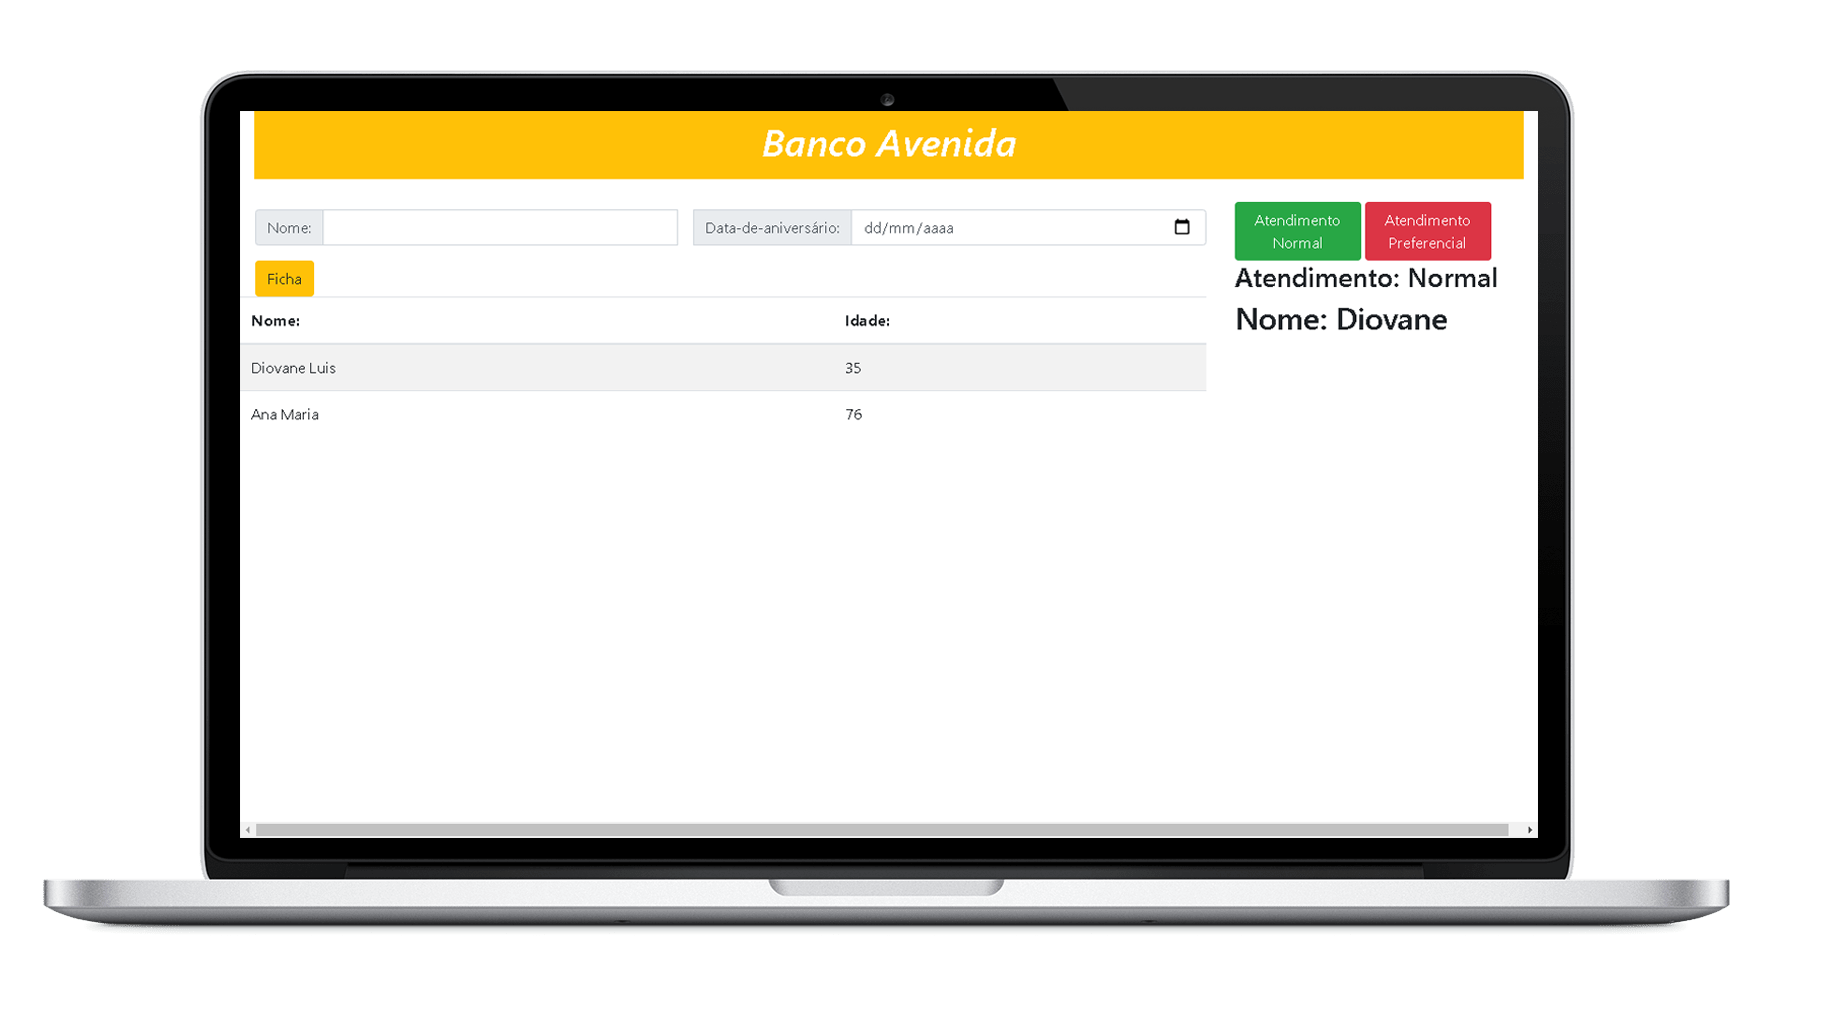
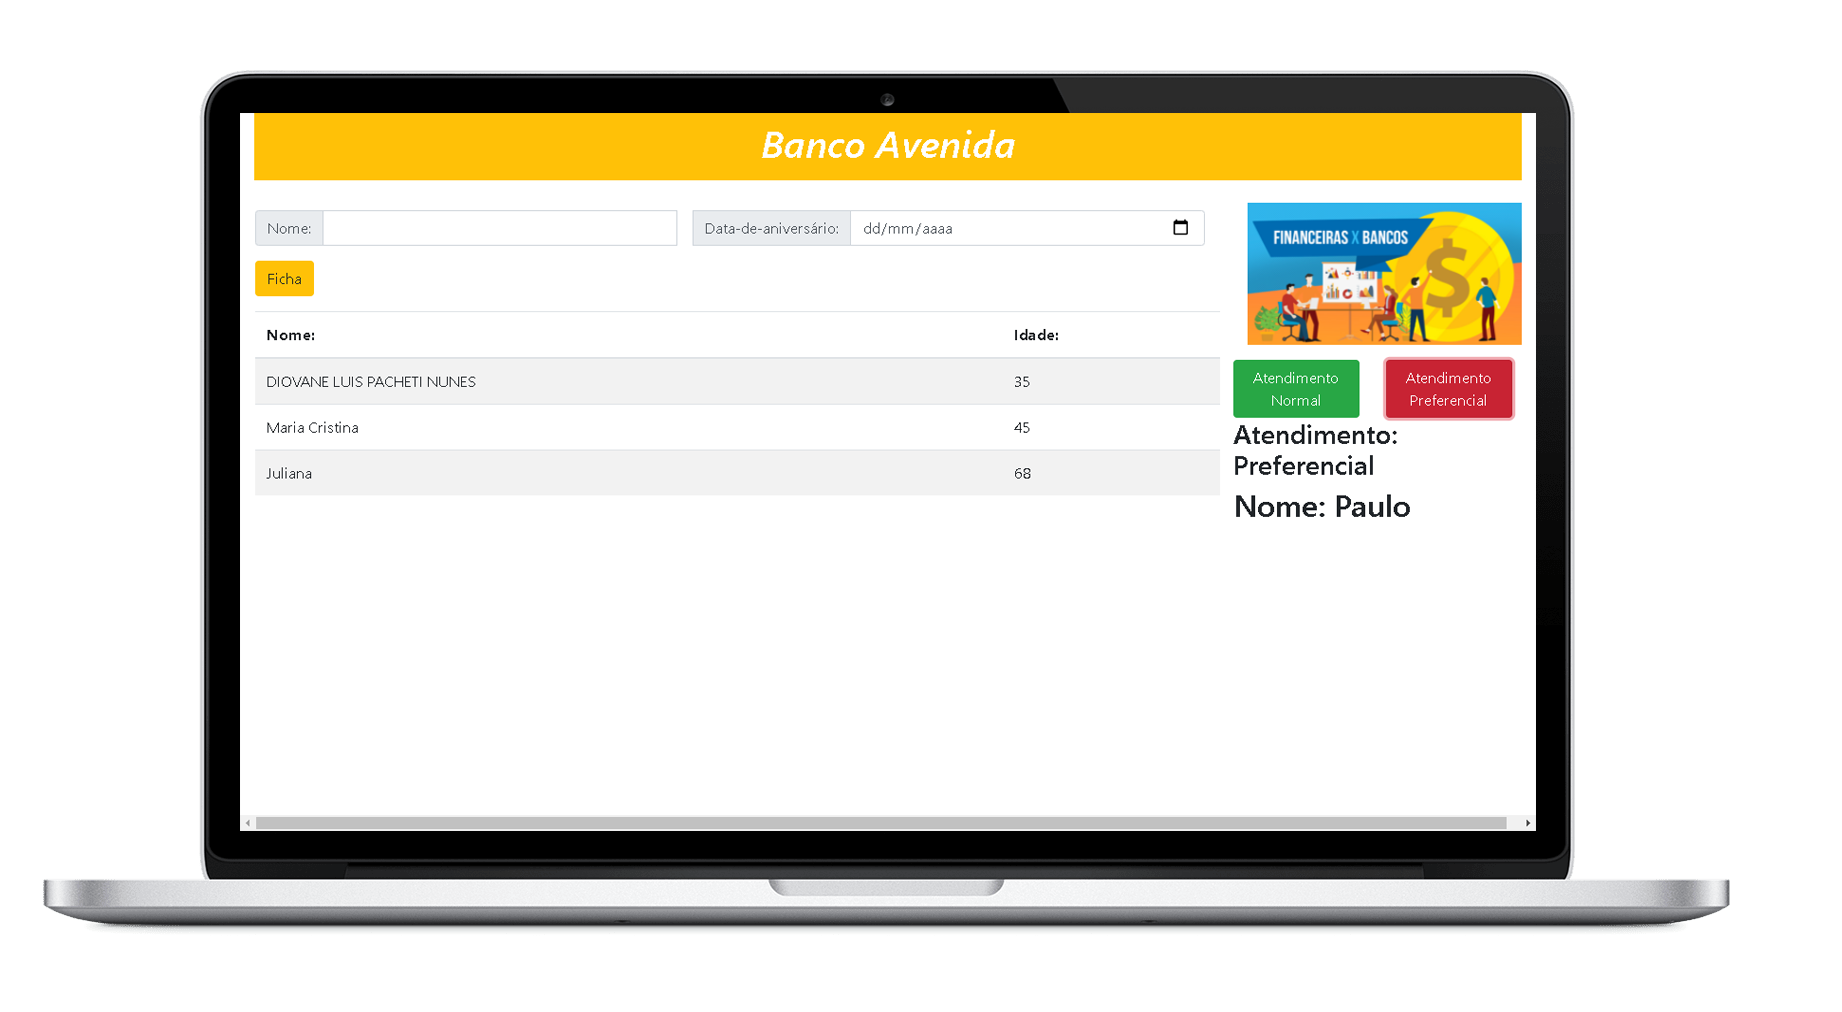
:art: add nova imagem e corrige controle do painel

diff --git a/src/components/Main.js b/src/components/Main.js
@@ -38,6 +38,7 @@ const Main = () =>{
 
         // atualiza a lista
         atualizaLista(clientes2);
+        setPainel(true)
     }
 
     const handleNormalService = () => {
@@ -63,7 +64,7 @@ const Main = () =>{
         // atualiza a lista
         atualizaLista(clientes2);
         
- 
+        setPainel(true)
         // pode-se limpar cada campo 
     
         console.log(emAtendimneto);
